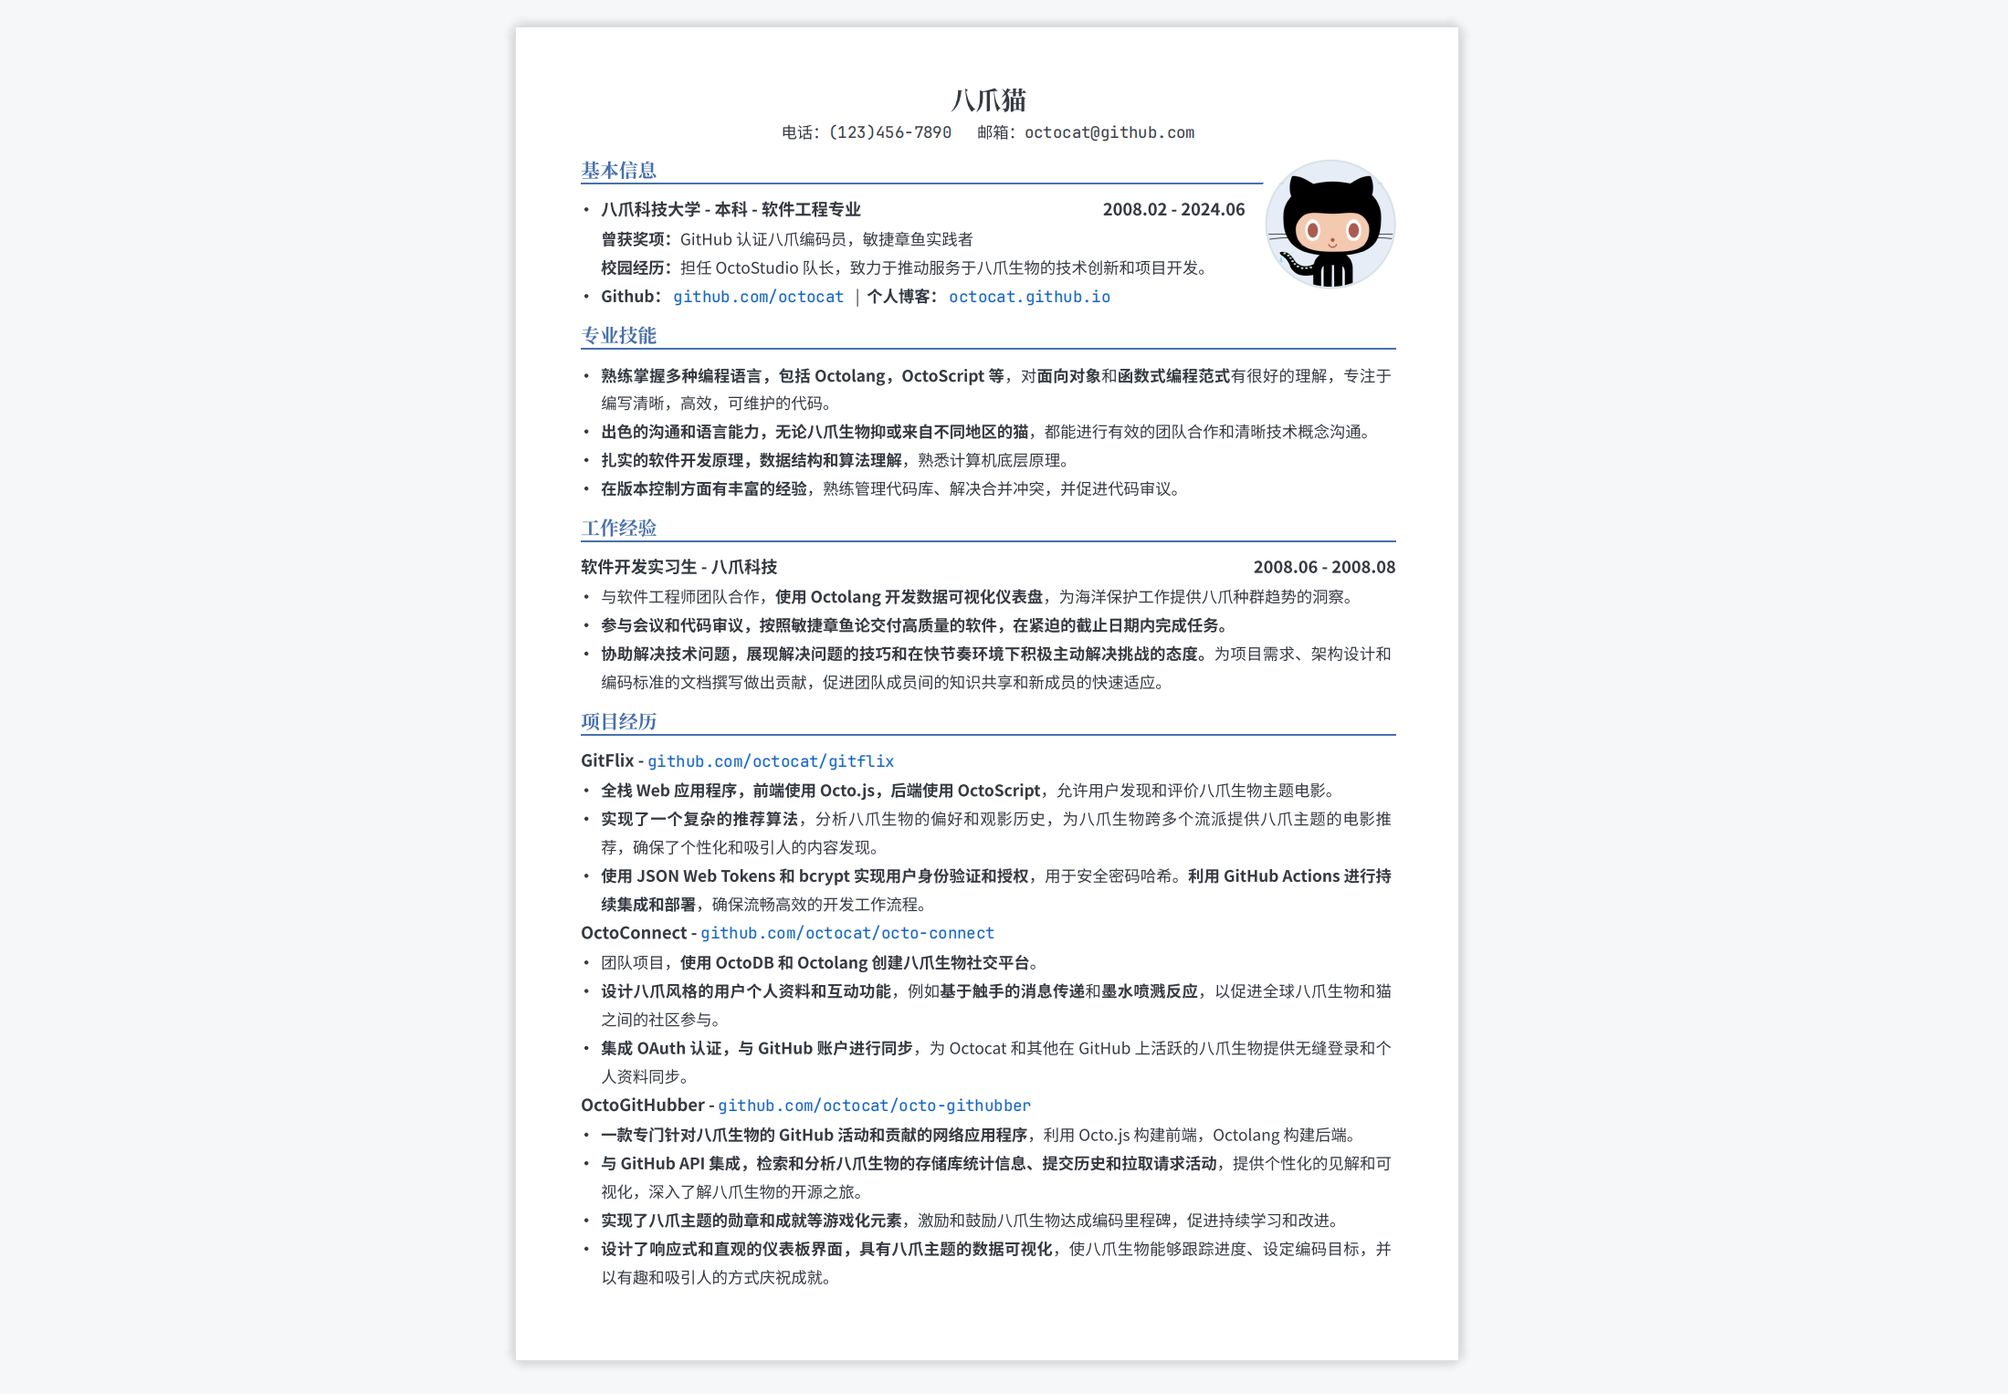
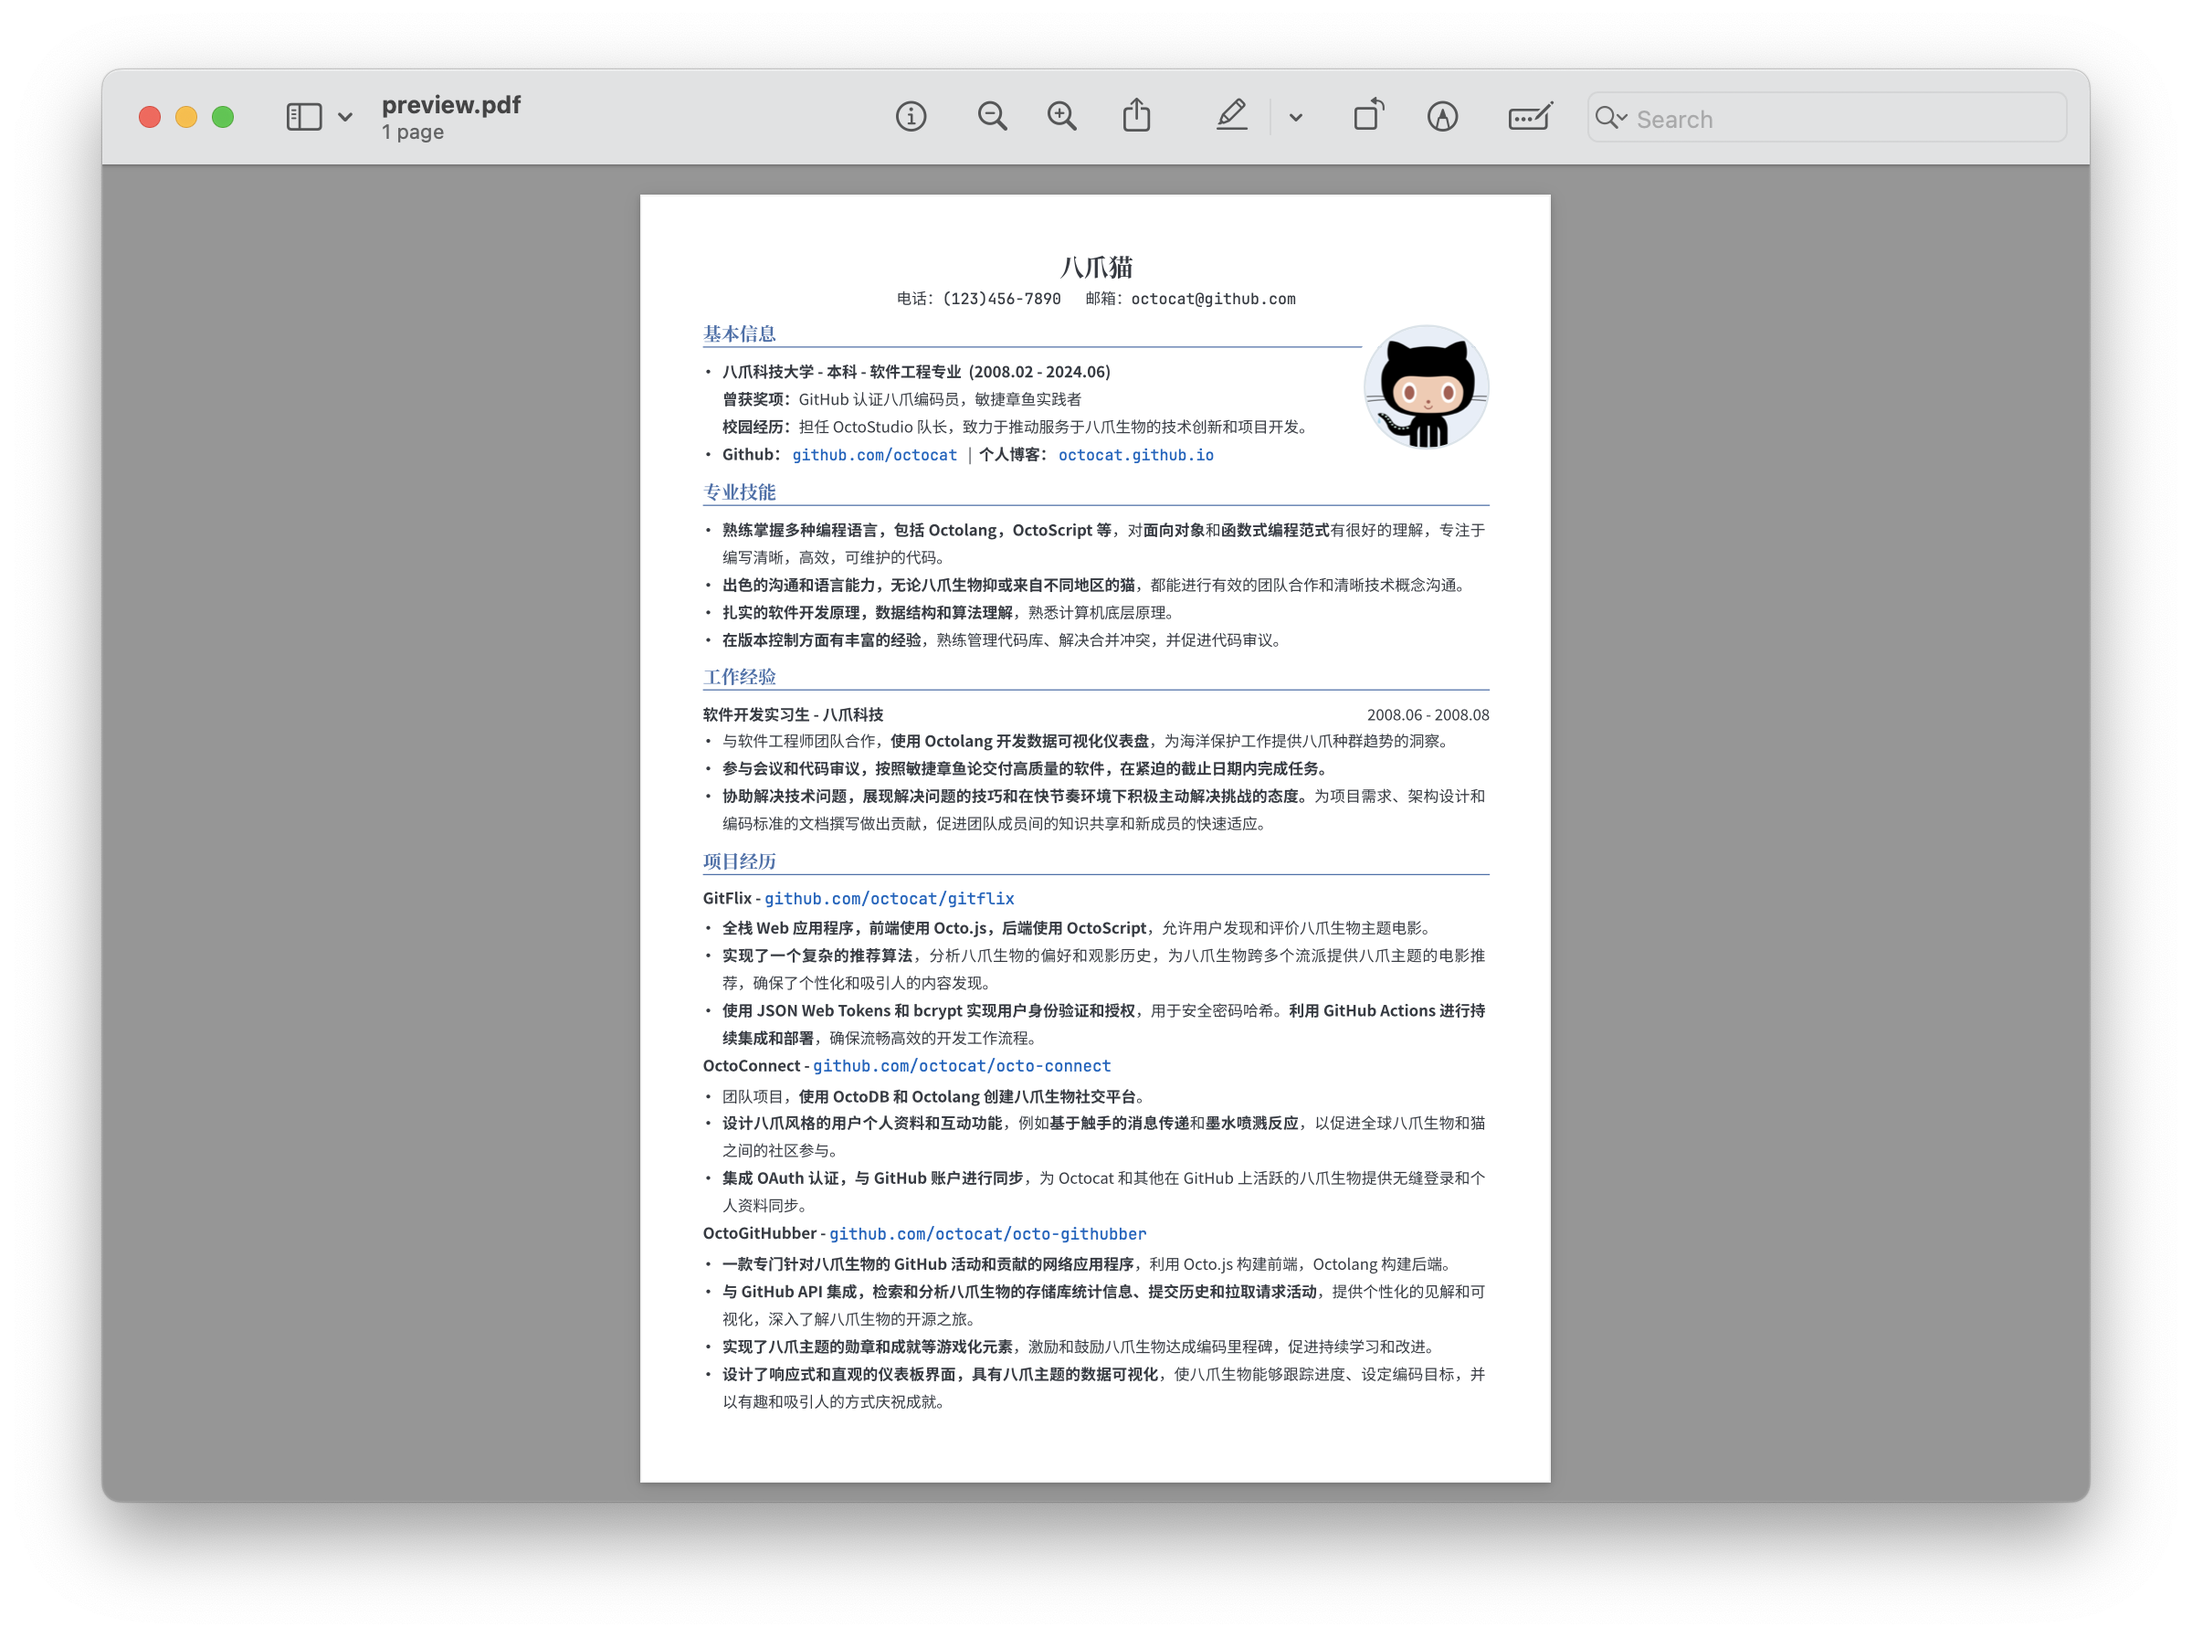
docs: update preview

diff --git a/README.md b/README.md
@@ -1,46 +1,43 @@
-# typora-theme-lapis-resume
-## 特性
+<h1 align="center">
+    Lapis Resume
+</h1>
+<p align="center">
+    📃 开箱即用的 Typora 简历
+</p>
 
-- 开箱即用的 Typora 简历，所见即所得
-- 风格简洁正式，适用于大部分求职 / 求学场景
+### 预览
 
-## 预览
+![Screenshot](.assets/screenshot.png)
 
-![](.assets/preview.png)
+![Preview](.assets/preview.png)
 
 <div align="center"><a href=".assets/preview.pdf">PDF 样例</a></div>
 
-## 安装与使用
+- 易于编辑，无需额外排版，所见即所得
+- 风格简洁正式，适用于大部分求职 / 求学场景
 
-1. 下载 Release，设置 Lapis Resum 作为主题
+### 安装与使用
 
-2. 打开模版文件 [template.md](example/template.md) 进行内容编辑，文件 - 导出 - PDF 即可导出 PDF 格式简历文件。
+1. 下载 Release，设置 Lapis Resume 作为主题（将 lapis-resume.css 与 lapis-resume 目录放入主题文件夹）
 
-## 样式
+2. 打开模版文件 [template.md](template/template.md) 进行内容编辑，文件 - 导出 - PDF 即可导出 PDF 格式简历文件。
 
-- 一级标题 - 姓名块
-- 引用块 - 联系方式块
-- `<img alt="avatar">` - 头像，不带头像删除该行即可
-- 二级标题 - 栏标题
-- 三级标题 - 栏内子标题
-- 分隔线 - **分页标记**，导出 pdf 时将在每个分隔线处进行分页
+### 格式
 
-如果内容长度与单页不适配，或想要修改原有样式，可通过更改设定样式来调整：
+- 一级标题：姓名块
+- 引用块：联系方式块
+- `<img alt="avatar">`：头像，不带头像删除该行即可
+- 二级标题：栏标题
+- 三级标题：栏内子标题
+- 分隔线：**分页标记**，导出 pdf 时将在每个分隔线处进行分页
 
 ### 自定义样式
 
-
-<details>
-<summary>支持自定义细节样式，修改 `lapis-cv.css` 代码文件的 `Custom Config` 块对应值即可</summary>
-
-支持自定义的字段如下。
+支持自定义细节样式，修改 `lapis-cv.css` 代码文件开头的 `Custom Config` 块对应值并重启 Typora 即可
 
 ```css
 :root {
     --text-size: 10pt;                      // 文本字体大小
-    --print-margin-side: 6mm;               // 打印的侧边页边距
-    --print-margin-top: 12mm;               // 打印的顶部页边距
-    --print-margin-bottom: 0;               // 打印的底部页边距
     --line-height: 1.8;                     // 文本行高
     --avatar-width: 29mm;                   // 头像宽度
 
@@ -50,9 +47,9 @@
     --shadow-color: #dae3eac9;
     --border-color: #dae3ea;
 
-    --h1-size: var(--text-size) + 6pt;      // 一级标题字体大小
-    --h2-size: var(--text-size) + 2pt;      // 二级标题字体大小
-    --h3-size: var(--text-size) + 0.5pt;    // 三级标题字体大小
+    --h1-size: 16pt;                        // 一级标题字体大小
+    --h2-size: 12pt;                        // 二级标题字体大小
+    --h3-size: 10.5pt;                      // 三级标题字体大小
 
     --text-font: 'SourceHanSansCN';         // 文本字体
     --title-font: 'SourceHanSerifCN';       // 标题字体
@@ -63,10 +60,8 @@
 // 打印时的页边距
 @media print {
     @page {
-        margin: 12mm 6mm 0 6mm;             // 上边距 左边距 右边距 下边距
+        margin: 12mm 6mm 0 6mm;             // 上边距 左边距 下边距 右边距
     }
 }
 ```
-
-</details>
 
